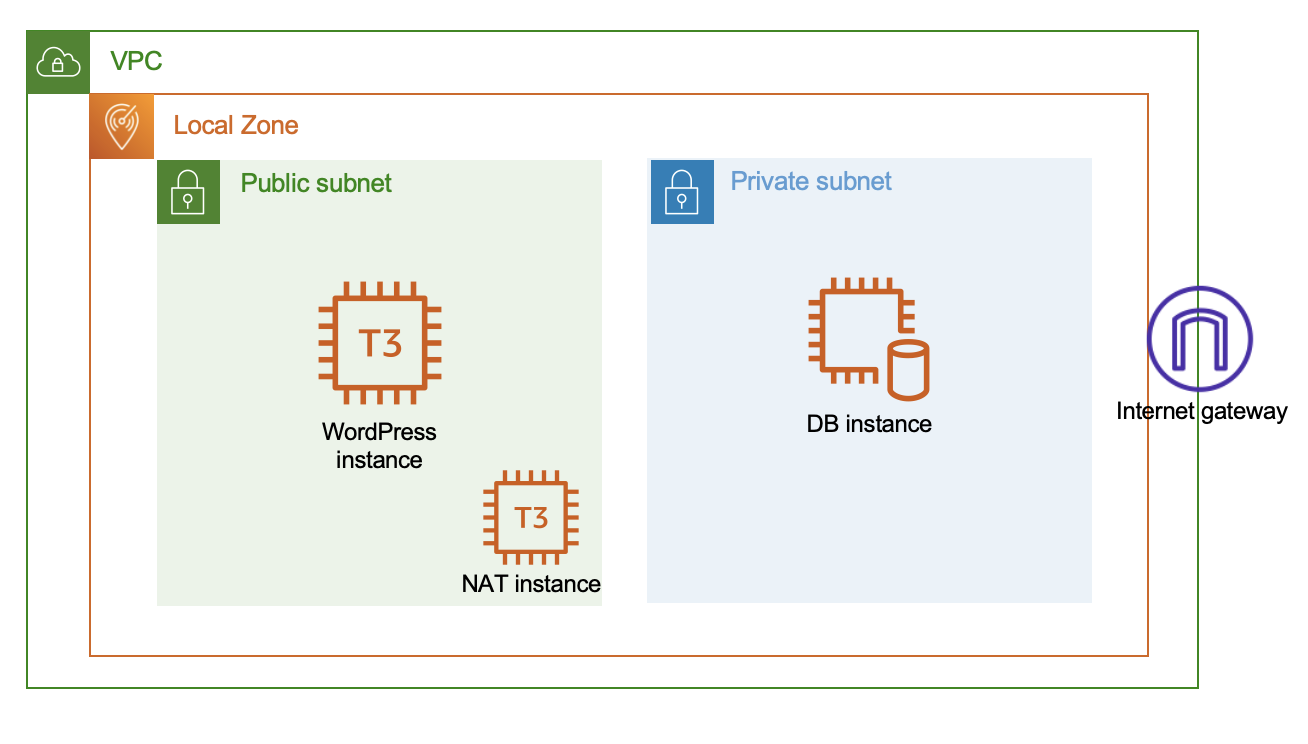
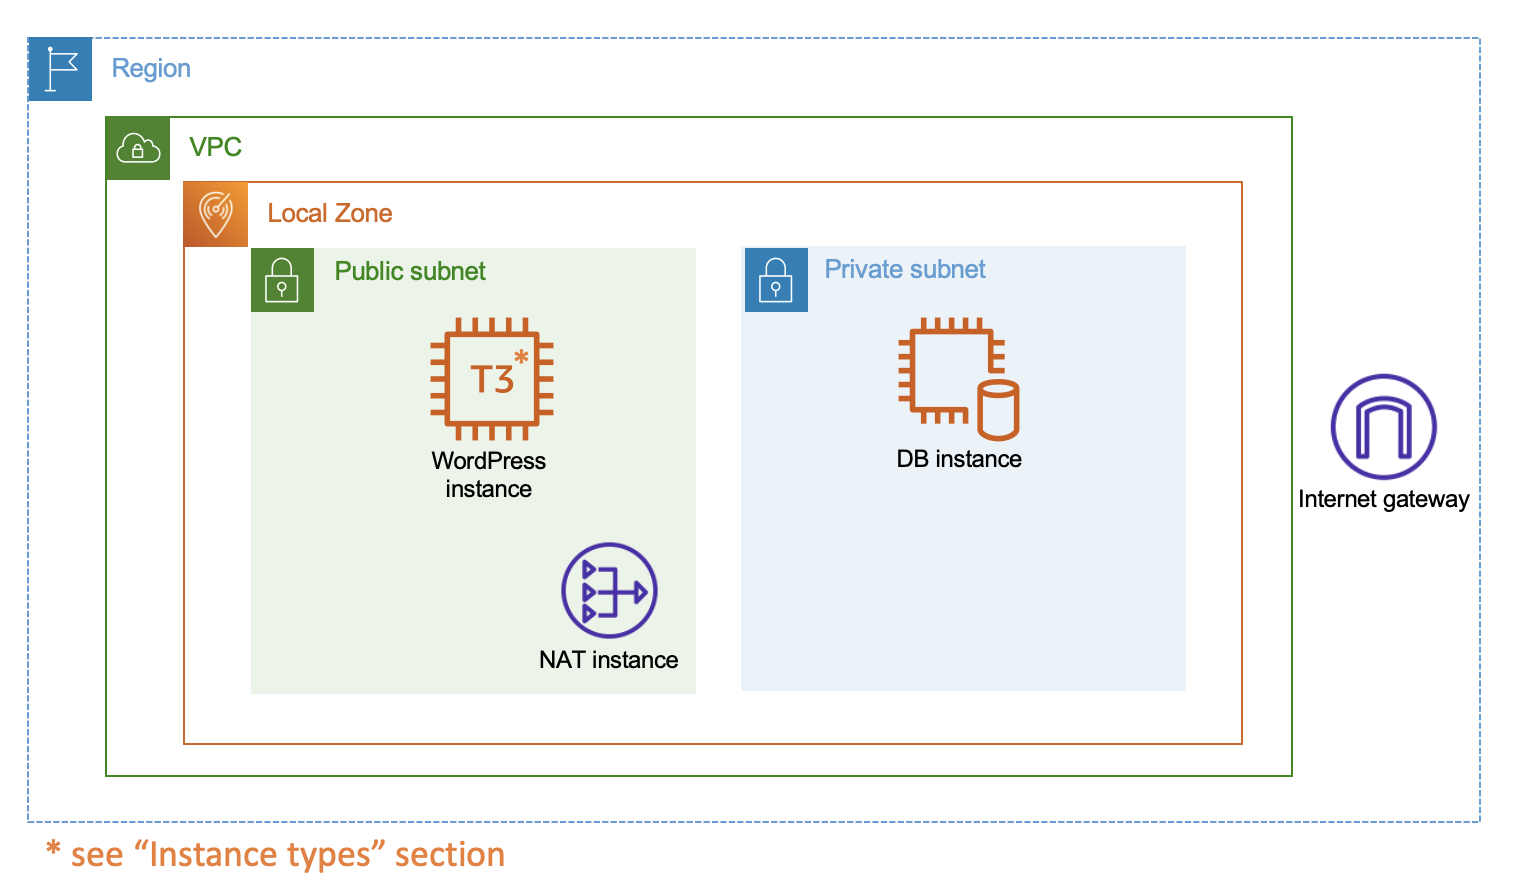
improved README and architecture diagram

diff --git a/python/vpc-ec2-local-zones/README.md b/python/vpc-ec2-local-zones/README.md
@@ -8,11 +8,40 @@ This is a project that demonstrates how to deploy resources in a AWS Local Zone.
 ![alt text](./architecture.png "AWS Local Zone with CDK")
 
 The generated stack creates a new Amazon VPC with a public and a private subnet associated with the specified Local Zone. 
-To allow resources in the private subnet to initiate traffic towards the Internet, it deploys an EC2 instance of type T3 Medium that acts as a NAT instance. The reason why a self managed NAT instance is used is because currently NAT Gateway is not supported in Local Zone. 
+To allow resources in the private subnet to initiate traffic towards the Internet, it deploys an EC2 instance that acts as a NAT instance. The reason why a self managed NAT instance is used is because currently NAT Gateway is not supported in Local Zone. 
 
-The NAT instance is configured following the best practices described in https://docs.aws.amazon.com/vpc/latest/userguide/VPC_NAT_Instance.html#basics . The route table of the private instance is automatically configured to have a default route pointing to the NAT instance in the public subnet.
+The NAT instance is configured following the best practices described in [the public documentation](https://docs.aws.amazon.com/vpc/latest/userguide/VPC_NAT_Instance.html#basics). The route table of the private instance is automatically configured to have a default route pointing to the NAT instance in the public subnet.
 
 In addition, the script deploys a simple WordPress installation with the front-end installed in the public subnet while the back-end, a MySQL database, installed in a EC2 in the private subnet. 
+
+## Local Zone 
+
+For this sample it is used Los Angeles Local Zone. 
+To use a different Local Zone, please change *LZ_NAME* variable in *vpc_ec2_local_zones/vpc_ec2_local_zones_stack.py*
+
+## Instance types
+
+In this sample the Instance Type used for the EC2 instances is **T3 Medium**. 
+You can check the supported instance types in a specific Local Zone with [DescribeInstanceTypeOfferings](https://docs.aws.amazon.com/AWSEC2/latest/APIReference/API_DescribeInstanceTypeOfferings.html) API (please note that the Local Zone must be enabled to use the API).
+
+CLI command: 
+```
+aws ec2 describe-instance-type-offerings --location-type "availability-zone" --filters Name=location,Values=<LZ Name> --region <Region>
+```
+
+or using Boto3: 
+```
+ec2 = boto3.client('ec2', config=Config(region_name=<region>))
+response = ec2.describe_instance_type_offerings(
+      LocationType='availability-zone',
+      Filters=[
+                {
+                 'Name': 'location',
+                 'Values': [<LZ Name>]
+                },
+              ]
+      )
+```
 
 ## Usage
 
